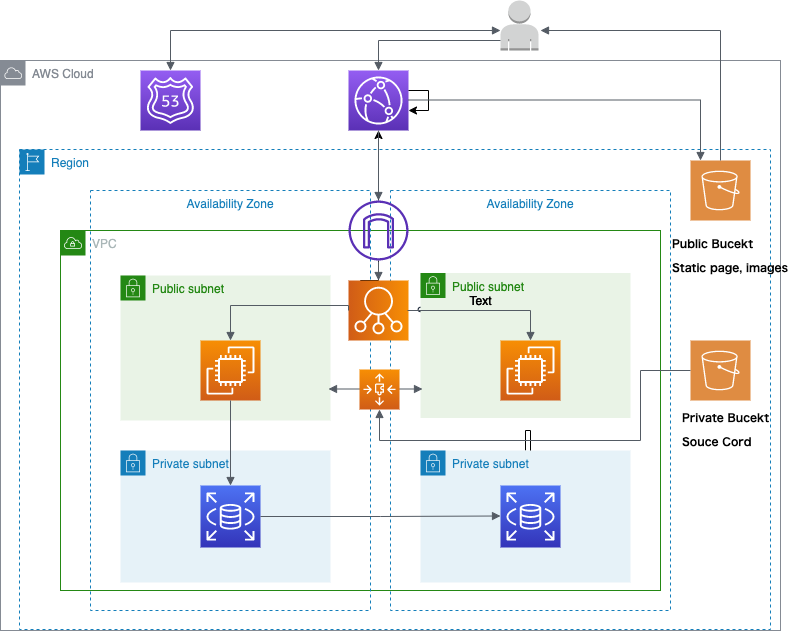
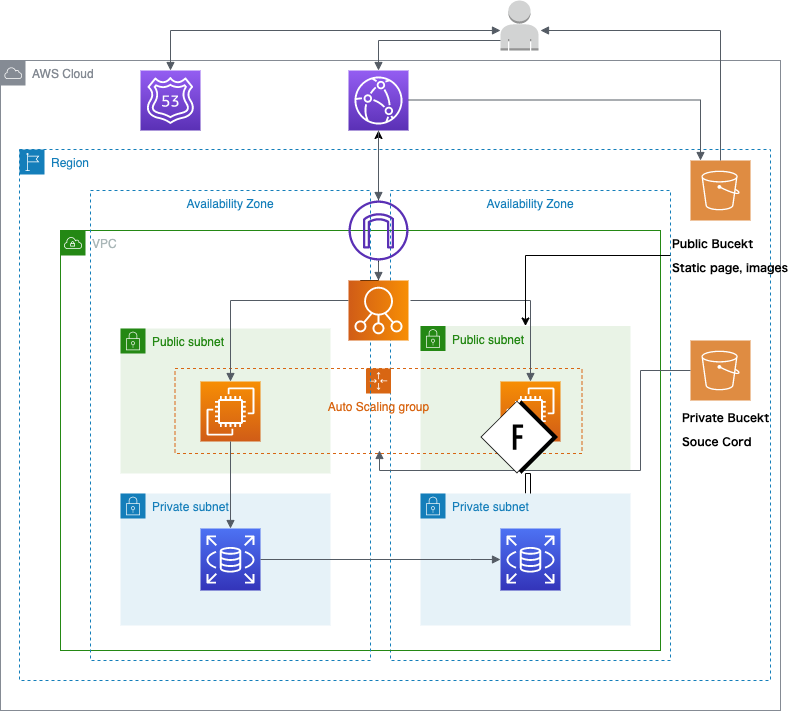
Modified README, rds

diff --git a/README.md b/README.md
@@ -1,1 +1,11 @@
 # Rails アプリケーションインフラのTerraform によるコード化
+## 構成図
+![diagram](.sample.png)
+
+# 特徴
+- マルチAZによる冗長化
+- ALBによる負荷分散
+- オートスケーリングによる可用性向上
+- CloudFrontの活用による静的コンテンツの高速配信
+- HTTPS通信
+
